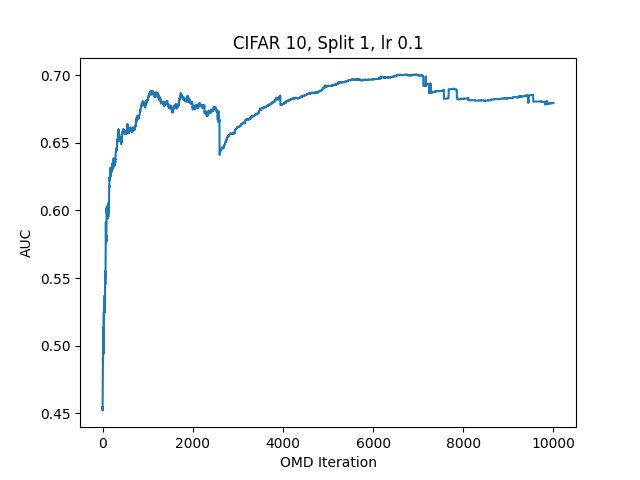
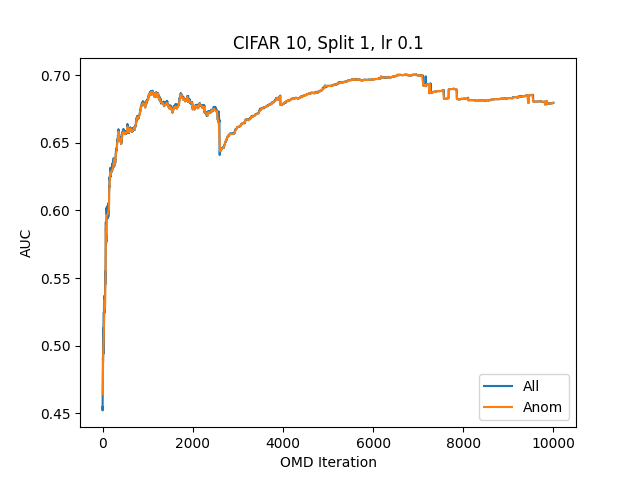
Finished max anom strategy experiments with anomaly plot overlay

diff --git a/oracle_omd.py b/oracle_omd.py
@@ -676,7 +676,7 @@ def main():
          
 	
              # Note that the train_latent_df is used for determining the initial weight vector
-             w, clf_omd, wprior = omd(train_latent_df, val_latent_df, anom_classes, j, strategy="random", learning_rate=learning_rates[i])
+             w, clf_omd, wprior = omd(train_latent_df, val_latent_df, anom_classes, j, strategy="max", learning_rate=learning_rates[i])
 
          	
              # Construct test set and embed test examples
@@ -771,7 +771,7 @@ def main():
              #X = data_df.drop(columns=['label'])
          
              # Note that the train_latent_df is used for determining the initial weight vector
-             T_vec, auc_vec, anom_iters, anom_auc, oracle_labels = omd_test(train_latent_df, val_latent_df, anom_classes, j, kn_unkn_test_loda_tx, test_target, wprior, strategy="random", learning_rate=learning_rates[i])
+             T_vec, auc_vec, anom_iters, anom_auc, oracle_labels = omd_test(train_latent_df, val_latent_df, anom_classes, j, kn_unkn_test_loda_tx, test_target, wprior, strategy="max", learning_rate=learning_rates[i])
             
              # Write results to file for further analysis (anomaly isolation, etc.)
              auc_omd_iters_filename = os.path.join(MODEL_DATA_DIRECTORY, 'auc_omd_iters_{}_lr{}.npy'.format(j,i))              
